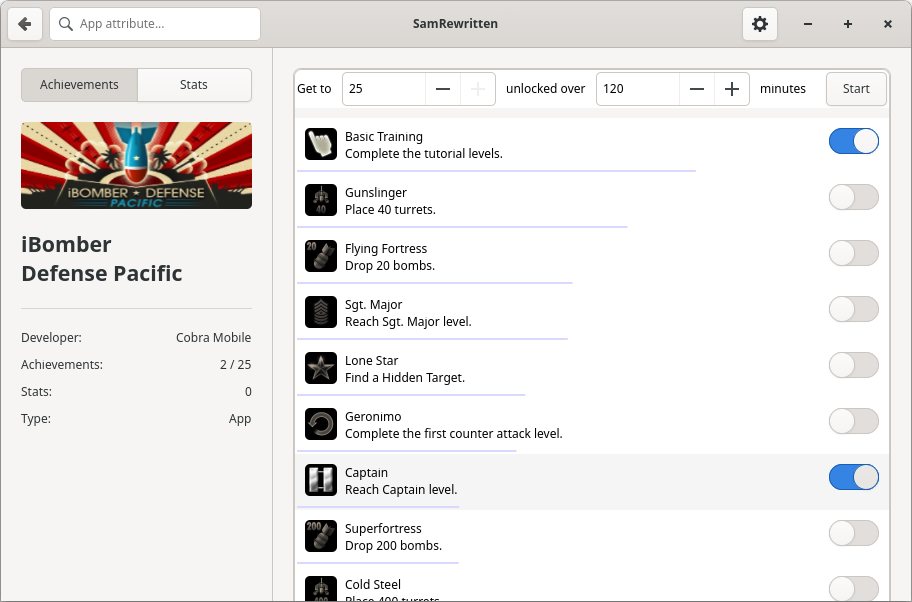
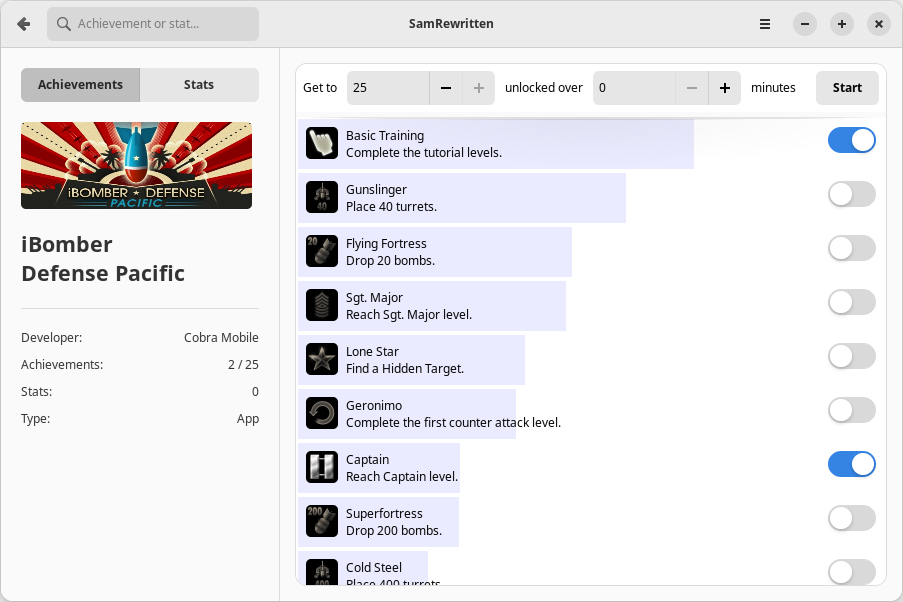
Update documentation

diff --git a/TODO.md b/TODO.md
@@ -1,8 +1,6 @@
 ### Medium priority
 
-- Instead of having small bars under the achievements to represent gloable achievement percentage, can we make it the
-  background? would it look any better?
-- Support for multiple simultaneous instances ('launch in new window' button)
+- Find a new design for the app list (imitate Steam?)
 
 ### Low priority
 
@@ -18,3 +16,4 @@
 - Support for Flatpak installs of Steam
 - Fix snapcraft packaging
 - Find a solution to this problem: https://github.com/PaulCombal/achievement-poc
+- Support for flatpak

diff --git a/doc/CONTRIBUTING.md b/doc/CONTRIBUTING.md
@@ -6,3 +6,6 @@ Be civilized, avoid useless comments.
 
 If you want to appear in the authors, you have to have made significant contributions.
 It is up to previous contributors to allow your name or not.
+
+AI-generated PRs that contribute nothing to the codebase except for moving things around will be refused.
+Genuine refactorings significantly improving the code quality can be discussed.

diff --git a/README.md b/README.md
@@ -7,10 +7,12 @@ SamRewrittem
 
 <p align=center>
     <img src="/assets/screenshot1.png" alt="SamRewritten screenshot">
+    <em>GTK version preview</em>
 </p>
 
 <p align=center>
     <img src="/assets/screenshot2.png" alt="SamRewritten screenshot">
+    <em>Adwaita version preview</em>
 </p>
 
 <p align="center">A Steam Achievements Manager for Windows and Linux.</p>
